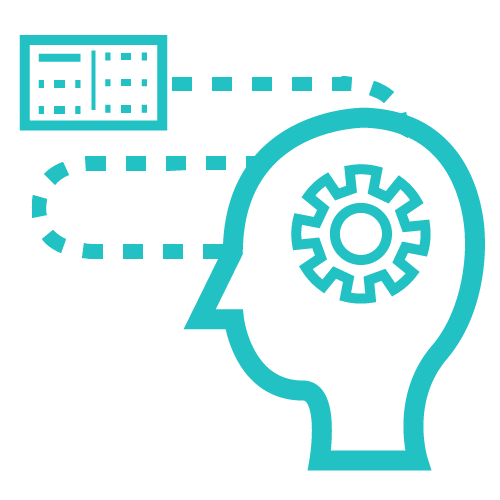
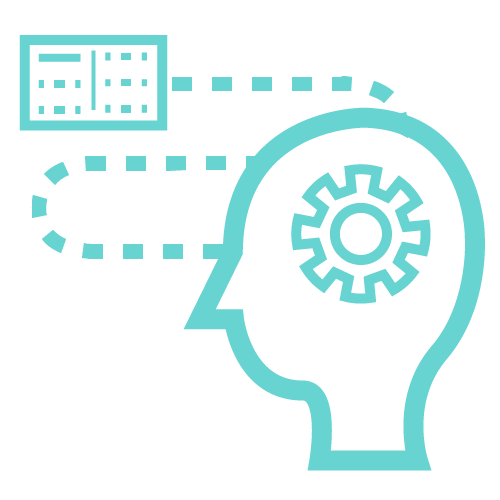
CSS: Skills

diff --git a/index.html b/index.html
@@ -33,11 +33,11 @@
   <section id="home">
     <img src="img/profile.jpg" alt="JYEJYE's profile photo : a woman with up hair taking a picture" class="home__profile">
     <h1 class="home__title">Hello, <br>I'm JYEJYE</h1>
-    <h2 class="home__description">A Running Developer by Learning for a Good Developer</h2>
+    <h2 class="home__description">A Running Developer by Learning for Future</h2>
     <button class="home__contact">Contact Me</button>
   </section>
   <!-- About -->
-  <section id="about" class="section">
+  <section id="about" class="section section__container">
     <h1>About me</h1>
     <p>적극적으로 배우고 배움을 함께 나누며 성장하는 개발자가 되겠습니다</p>
     <div class="about__majors">
@@ -75,80 +75,80 @@
   </section>
   <!-- Skills -->
   <section id="skills" class="section">
-    <h1>Skills</h1>
-    <h2>Skills & Attribute</h2>
-    <div class="skillset">
-      <div class="skillset__left">
-        <h3 class="skillset__title">Skills</h3>
-        <div class="skill">
-          <div class="skill_description">
-            <i class="fab fa-html5"></i>
-            <span>HTML</span>
-            <span>90%</span>
+    <div class="section__container">
+      <h1>Skills</h1>
+      <div class="skillset">
+        <div class="skillset__left">
+          <h3 class="skillset__title">Skills</h3>
+          <div class="skill">
+            <div class="skill__description">              
+              <span><i class="fab fa-html5" style="color: orangered"></i >HTML</span>
+              <span>90%</span>
+            </div>
+            <div class="skill__bar">
+              <div class="skill__value" style="width: 90%"></div>
+            </div>
           </div>
-          <div class="skill__bar">
-            <div class="skill__value"></div>
+          <div class="skill">
+            <div class="skill__description">              
+              <span><i class="fab fa-css3-alt" style="color: #0099ff"></i>CSS</span>
+              <span>90%</span>
+            </div>
+            <div class="skill__bar">
+              <div class="skill__value" style="width: 90%"></div>
+            </div>
           </div>
+          <div class="skill">
+            <div class="skill__description">              
+              <span><i class="fab fa-js"></i>JavaScript</span>
+              <span>80%</span>
+            </div>
+            <div class="skill__bar">
+              <div class="skill__value" style="width: 80%"></div>
+            </div>
+          </div>
+          <div class="skill">
+            <div class="skill__description">              
+              <span><i class="fab fa-php" style="color: #6b48ca"></i>PHP</span>
+              <span>80%</span>
+            </div>
+            <div class="skill__bar">
+              <div class="skill__value" style="width: 80%"></div>
+            </div>
+          </div>
+          <div class="skill">
+            <div class="skill__description">
+              
+              <span><i class="fas fa-database" style="color: #2459aa"></i>MySQL</span>
+              <span>80%</span>
+            </div>
+            <div class="skill__bar">
+              <div class="skill__value" style="width: 80%"></div>
+            </div>
+          </div>        
         </div>
-        <div class="skill">
-          <div class="skill_description">
-            <i class="fab fa-css3-alt"></i>
-            <span>CSS</span>
-            <span>90%</span>
+        <div class="skillset__right">
+          <div class="tools">
+            <h3 class="tools__title">Tools</h3>
+            <ul class="tools__list">
+              <li><span>Visual Studio</span></li>
+              <li><span>Adobe Illustrator</span></li>
+              <li><span>Adobe Photoshop</span></li>
+              <li><span>Adobe Premiere Pro</span></li>          
+            </ul>
           </div>
-          <div class="skill__bar">
-            <div class="skill__value"></div>
+          <div class="etc">
+            <h3 class="tools__title">Etc</h3>
+            <ul class="tools_list">
+              <li><span>Git</span></li>
+            </ul>
           </div>
-        </div>
-        <div class="skill">
-          <div class="skill_description">
-            <i class="fab fa-js"></i>
-            <span>JavaScript</span>
-            <span>80%</span>
-          </div>
-          <div class="skill__bar">
-            <div class="skill__value"></div>
-          </div>
-        </div>
-        <div class="skill">
-          <div class="skill_description">
-            <i class="fab fa-php"></i>
-            <span>PHP</span>
-            <span>80%</span>
-          </div>
-          <div class="skill__bar">
-            <div class="skill__value"></div>
-          </div>
-        </div>
-        <div class="skill">
-          <div class="skill_description">
-            <i class="fas fa-database"></i>
-            <span>MySQL</span>
-            <span>80%</span>
-          </div>
-          <div class="skill__bar">
-            <div class="skill__value"></div>
-          </div>
-        </div>        
-      </div>
-      <div class="skillset__right">
-        <div class="tools">
-          <h3 class="tools__title">Tools</h3>
-          <ul class="tools__list">
-            <li><span>Visual Studio</span></li>
-            <li><span>Adobe Illustrator</span></li>
-            <li><span>Adobe Photoshop</span></li>
-            <li><span>Adobe Premiere Pro</span></li>          
-          </ul>
-        </div>
-        <div class="etc">
-          <h3 class="tools__title">Git</h3>
         </div>
       </div>
     </div>
   </section>
   <!-- Work -->
-  <section id="work" class="section">
+  <section id="work" class="section section__container">
     <h1>My Work</h1>
     <h3>Projects</h3>
     <div class="work__categories">

diff --git a/css/style.css b/css/style.css
@@ -3,17 +3,18 @@
 :root {
   /* Color */
   /* gradient color */
-  --color-mint: #22c1c3;
-  --color-dark-mint: #00a3af;
+  --color-mint: #67d4d2;
+  --color-dark-mint: #25c1c3;
   --color-transparent-mint: #22c0c3b2;
-  --color-light-mint: #45c1ac;
-  --color-green: #64bf94;
-  --color-light-green: #84bd80;
-  --color-olive: #a1bd6e;
-  --color-olive-yellow: #c9bc50;
+  --color-light-mint: #7ad3c7;
+  --color-green: #afd2a0;
+  --color-light-green: #9fd3ae;
+  --color-olive: #abd1a5;
+  --color-olive-yellow: #d1d08b;
   --color-dark-yellow: #debc42;
-  --color-yellow: #fdbb2d;
-  --color-light-yellow: #fdbb2db0;
+  --color-yellow: #f7d171;
+
+  --color-orange: #ff6d00;
   /* achromatic color */
   --color-white: #ffffff;
   --color-light-white: #eeeeee;
@@ -172,6 +173,9 @@ p {
 .section {
   padding: 50px;
   text-align: center;
+  margin: auto;
+}
+.section__container {
   max-width: 1200px;
   margin: auto;
 }
@@ -218,4 +222,84 @@ p {
 
 .job__period {
   font-size: var(--font-micro);
+}
+
+/* Skills */
+#skills {
+  background-color: var(--color-green);
+}
+
+.skillset {
+  display: flex;
+  background-color: var(--color-white);
+  margin: 20px 0;
+  border-radius: var(--size-border-radius);
+}
+
+.skillset__title {
+  font-weight: var(--weight-semi-bold);
+}
+
+.skillset__left {
+  flex-basis: 60%;
+  background-color: var(--color-yellow);
+  padding: 20px;
+  border-radius: 4px 0 0 4px;
+}
+
+.skill__description {
+  display: flex;
+  justify-content: space-between;
+}
+.skill__description span i {
+  font-size: var(--font-small);
+  padding-right: 5px;
+}
+
+.skill {
+  margin-bottom: 8px;
+}
+
+.skill__bar {
+  width: 100%;
+  height: 3px;
+  background-color: var(--color-white);
+}
+
+.skill__value {
+  width: 70%;
+  height: 3px;
+  background-color: var(--color-orange);
+}
+
+.skillset__right {
+  flex-basis: 40%;
+}
+
+.tools {
+  background-color: var(--color-white);
+  color: var(--color-olive);
+}
+
+.tools h3 {
+  color: var(--color-olive);
+}
+
+.tools,
+.etc {
+  padding: 20px;
+}
+
+.tools h3,
+.etc h3 {
+  font-weight: var(--weight-semi-bold);
+}
+
+.etc {
+  color: var(--color-white);
+  background-color: var(--color-olive-yellow);
+}
+
+.etc h3 {
+  color: var(--color-white);
 }
